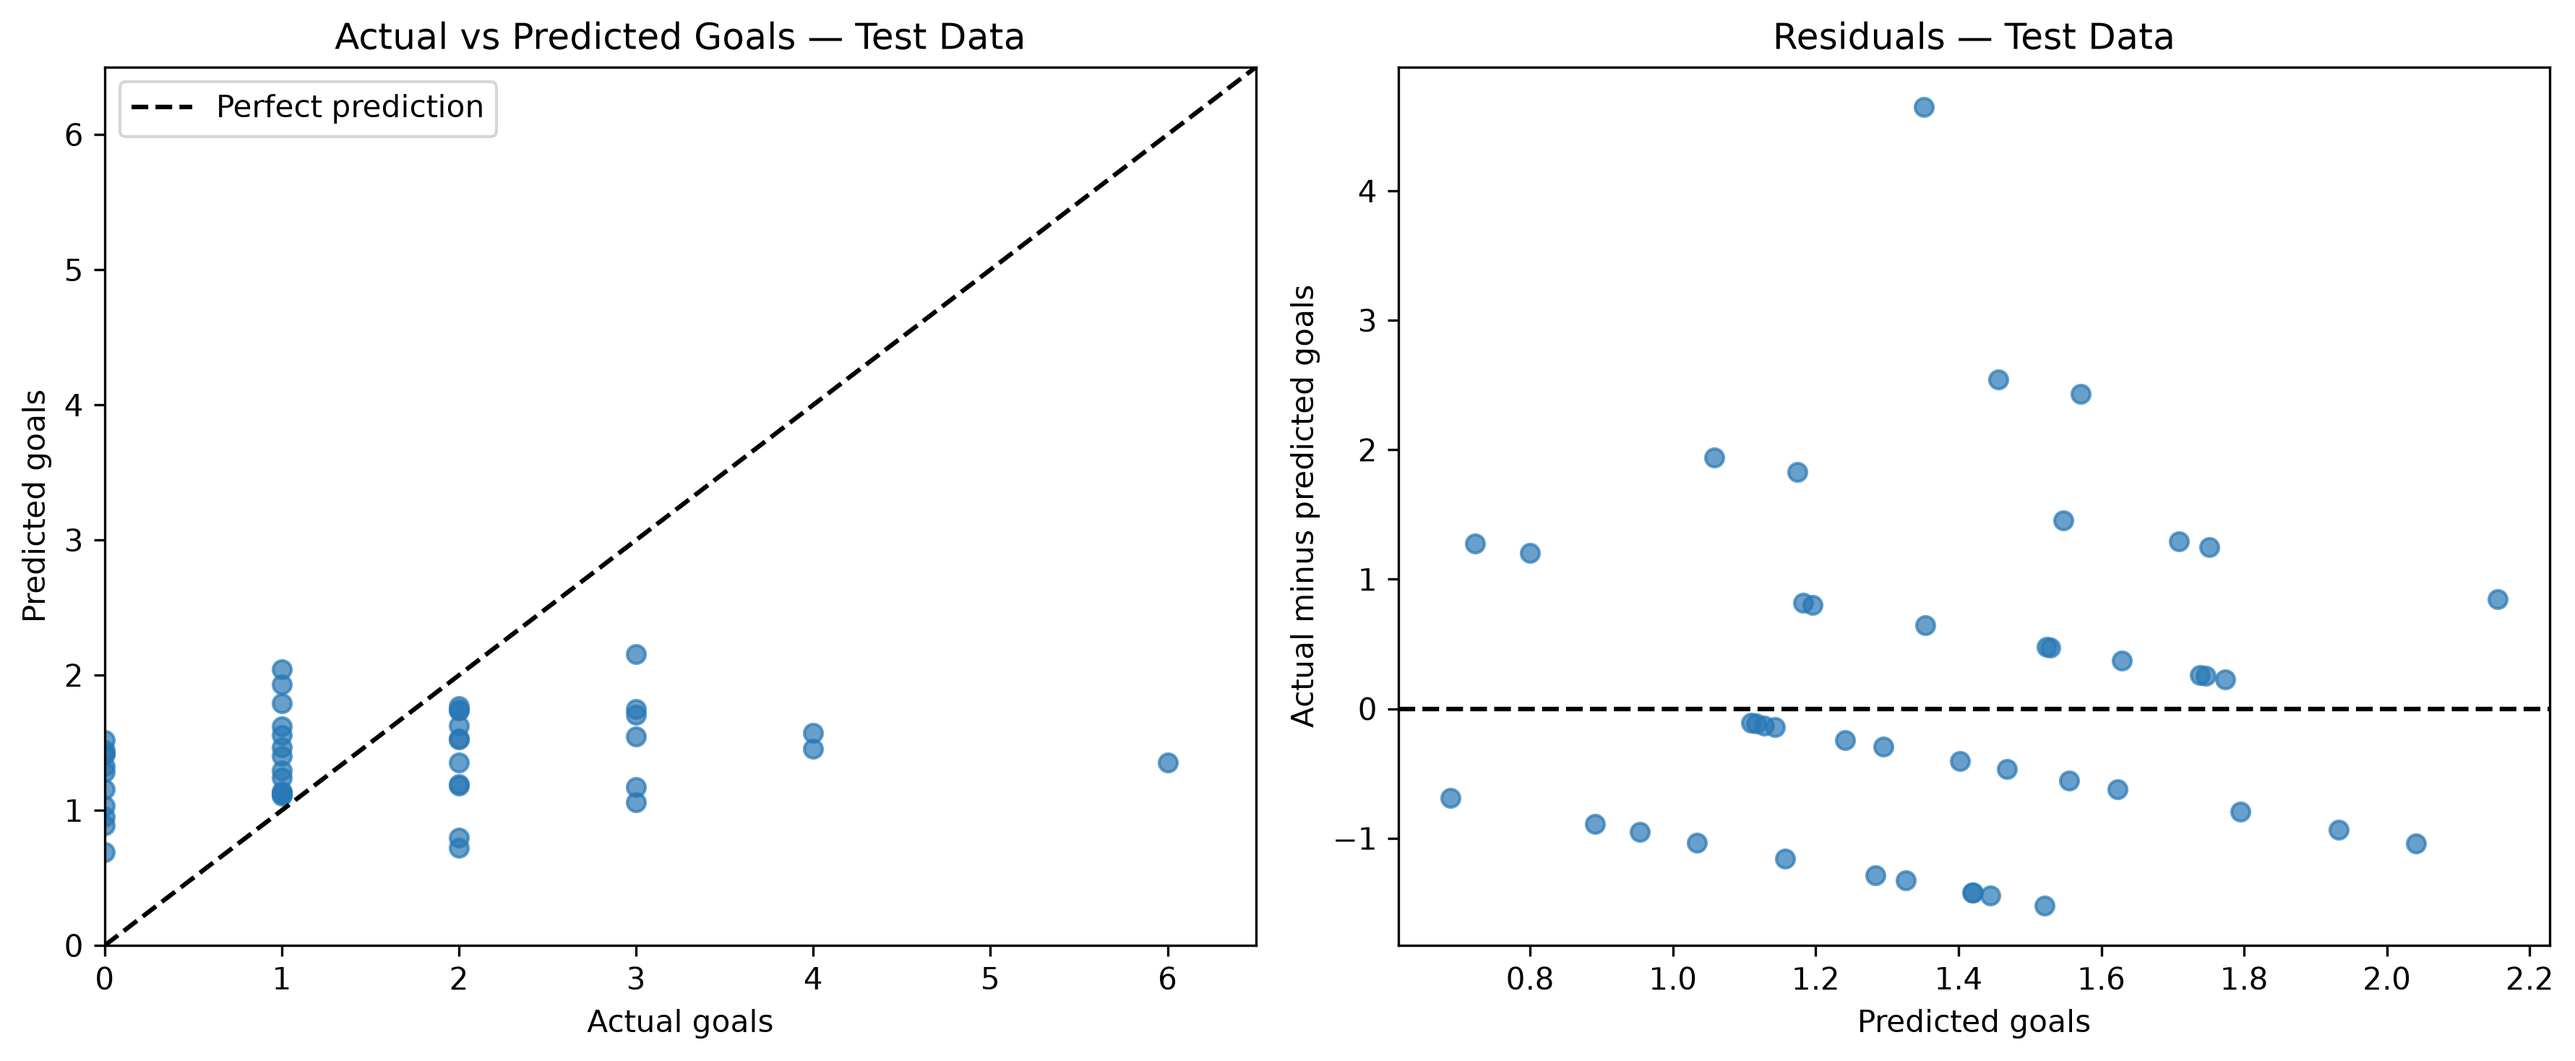
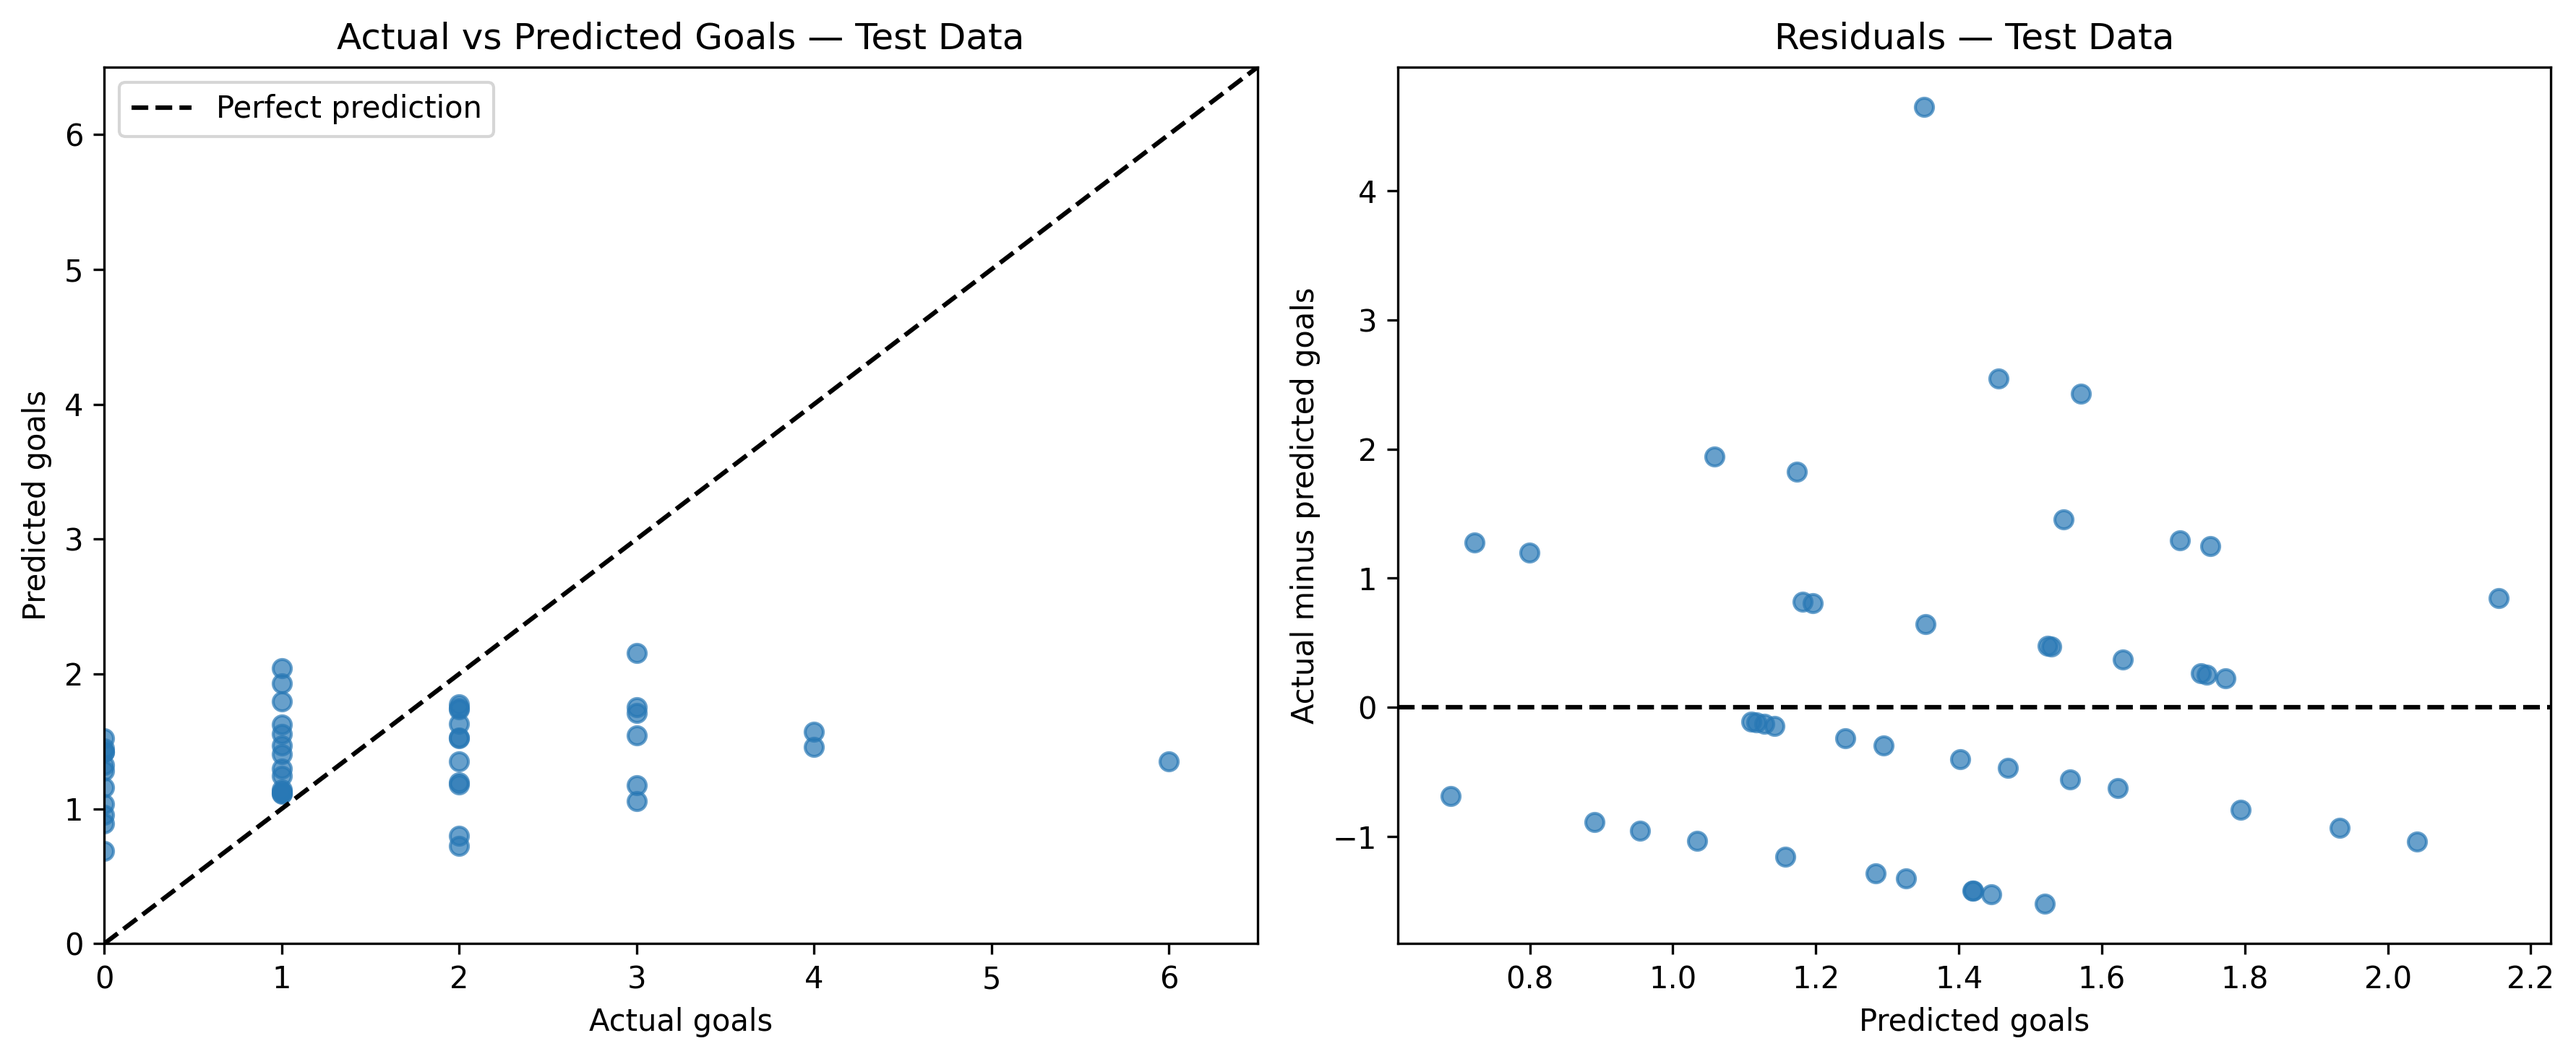
Updates

diff --git a/Regression 2.1/linear_regression_2_1.py b/Regression 2.1/linear_regression_2_1.py
@@ -194,6 +194,7 @@ ax.set_ylim(0, gd_counts.max() * 1.18)
 fig.tight_layout()
 fig.savefig(figures_path / "training_goal_difference_distribution.png", dpi=300, bbox_inches="tight")
 fig.savefig(base_path / "training_goal_difference_distribution.png", dpi=300, bbox_inches="tight")
+plt.show()
 plt.close(fig)
 
 # Correlations for review.
@@ -300,6 +301,7 @@ axes[1].set(title="Residuals — Test Data", xlabel="Predicted goal difference",
 fig.tight_layout()
 fig.savefig(figures_path / "test_prediction_diagnostics_2_1.png", dpi=300, bbox_inches="tight")
 fig.savefig(base_path / "test_prediction_diagnostics_2_1.png", dpi=300, bbox_inches="tight")
+plt.show()
 plt.close(fig)
 
 # Human-readable validation report.
